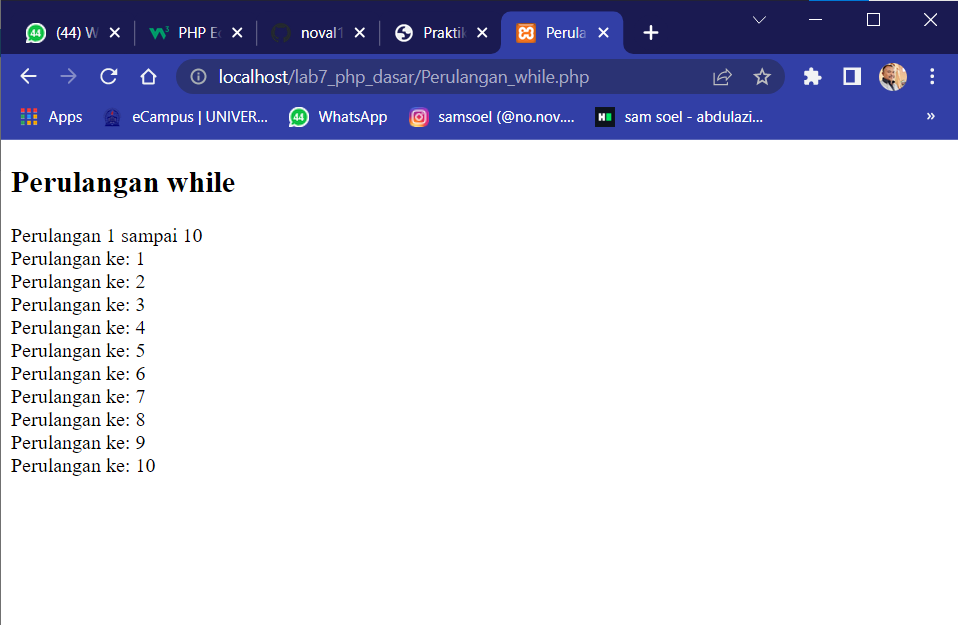
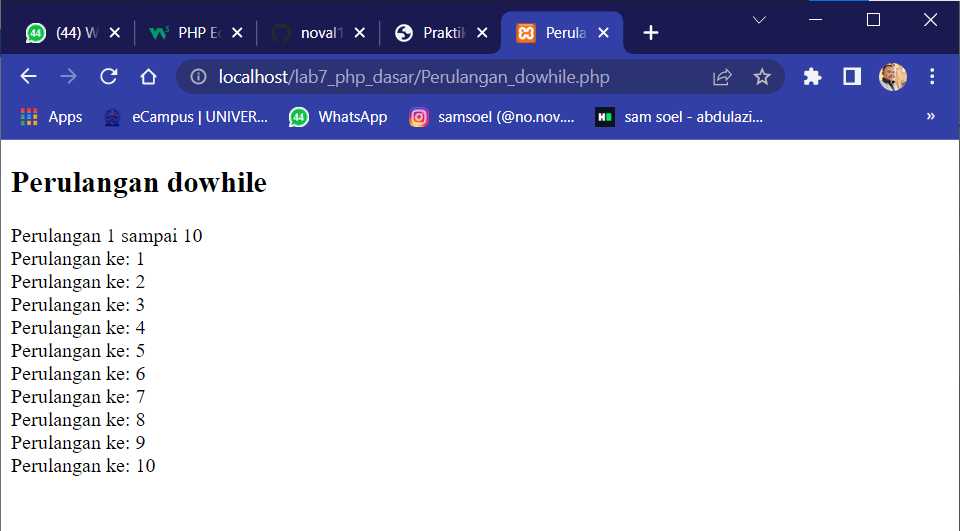
r

Changed region(s): [[0.0, 0.0, 1.0, 1.0], [0.9081, 0.0, 0.9687, 0.0301]]

diff --git a/source/Perulangan_while.php b/source/Perulangan_while.php
@@ -7,7 +7,7 @@
 </head>
 
 <body>
-    <h2>Perulangan while</h2>
+    <h2>Perulangan Dowhile</h2>
     <?php
     echo "Perulangan 1 sampai 10 <br />";
     $i = 1;
